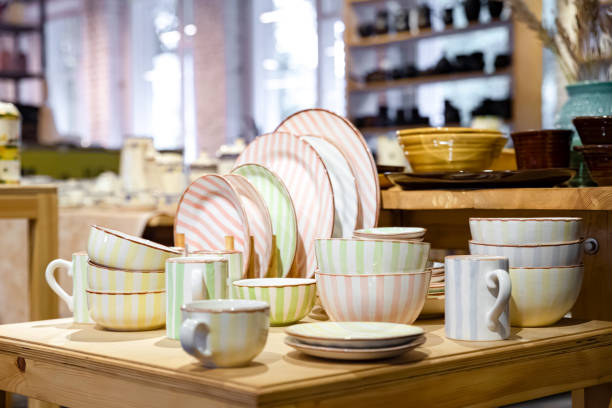
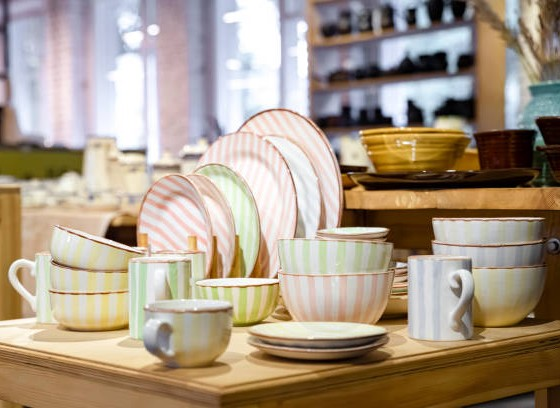
Shop By Category Modified

diff --git a/index.html b/index.html
@@ -234,65 +234,171 @@
           <h1>Shop By Category</h1>
 
           <div class="category_container">
-            <div class="categories cate_1">
-              <img src="images/categories/1.jpg" alt="category_1" />
+            <div class="categories">
+              <div class="cate">
+                <img src="images/categories/1.jpg" alt="category_1" />
+              </div>
+              <div class="info">
+                <div class="trend">Western Wear</div>
+                <div class="discount">40-80% Off</div>
+                <div class="shop">Shop Now</div>
+              </div>
             </div>
 
-            <div class="categories cate_2">
-              <img src="images/categories/2.jpg" alt="category_2" />
+            <div class="categories">
+              <div class="cate">
+                <img src="images/categories/2.jpg" alt="category_2" />
+              </div>
+              <div class="info">
+                <div class="trend">Home Decor</div>
+                <div class="discount">40-70% Off</div>
+                <div class="shop">Shop Now</div>
+              </div>
             </div>
 
-            <div class="categories cate_3">
-              <img src="images/categories/3.jpg" alt="category_3" />
+            <div class="categories">
+              <div class="cate">
+                <img src="images/categories/3.jpg" alt="category_3" />
+              </div>
+              <div class="info">
+                <div class="trend">Women's Dresses</div>
+                <div class="discount">30-70% Off</div>
+                <div class="shop">Shop Now</div>
+              </div>
             </div>
 
-            <div class="categories cate_4">
-              <img src="images/categories/4.jpg" alt="category_4" />
+            <div class="categories">
+              <div class="cate">
+                <img src="images/categories/4.jpg" alt="category_4" />
+              </div>
+              <div class="info">
+                <div class="trend">Footwear</div>
+                <div class="discount">40-80% Off</div>
+                <div class="shop">Shop Now</div>
+              </div>
             </div>
 
-            <div class="categories cate_5">
-              <img src="images/categories/5.jpg" alt="category_5" />
+           <div class="categories">
+              <div class="cate">
+                <img src="images/categories/5.jpg" alt="category_5" />
+              </div>
+              <div class="info">
+                <div class="trend">Jewellery</div>
+                <div class="discount">40-80% Off</div>
+                <div class="shop">Shop Now</div>
+              </div>
             </div>
 
-            <div class="categories cate_6">
-              <img src="images/categories/6.jpg" alt="category_6" />
+            <div class="categories">
+              <div class="cate">
+                <img src="images/categories/6.jpg" alt="category_6" />
+              </div>
+              <div class="info">
+                <div class="trend">Men's Ethnic Wear</div>
+                <div class="discount">50-80% Off</div>
+                <div class="shop">Shop Now</div>
+              </div>
             </div>
 
-            <div class="categories cate_7">
-              <img src="images/categories/7.jpg" alt="category_7" />
+           <div class="categories">
+              <div class="cate">
+                <img src="images/categories/7.jpg" alt="category_7" />
+              </div>
+              <div class="info">
+                <div class="trend">Men's Casual Wear</div>
+                <div class="discount">40-80% Off</div>
+                <div class="shop">Shop Now</div>
+              </div>
             </div>
 
-            <div class="categories cate_8">
-              <img src="images/categories/8.jpg" alt="category_8" />
+            <div class="categories">
+              <div class="cate">
+                <img src="images/categories/8.jpg" alt="category_8" />
+              </div>
+              <div class="info">
+                <div class="trend">Handbags</div>
+                <div class="discount">30-70% Off</div>
+                <div class="shop">Shop Now</div>
+              </div>
             </div>
 
-            <div class="categories cate_9">
-              <img src="images/categories/9.jpg" alt="category_9" />
+            <div class="categories">
+              <div class="cate">
+                <img src="images/categories/9.jpg" alt="category_9" />
+              </div>
+              <div class="info">
+                <div class="trend">Innerwear</div>
+                <div class="discount">40-80% Off</div>
+                <div class="shop">Shop Now</div>
+              </div>
             </div>
 
-            <div class="categories cate_10">
-              <img src="images/categories/10.jpg" alt="category_10" />
+           <div class="categories">
+              <div class="cate">
+                <img src="images/categories/10.jpg" alt="category_10" />
+              </div>
+              <div class="info">
+                <div class="trend">Formal Wear</div>
+                <div class="discount">30-70% Off</div>
+                <div class="shop">Shop Now</div>
+              </div>
             </div>
 
-            <div class="categories cate_10">
-              <img src="images/categories/11.jpg" alt="category_11" />
+          <div class="categories">
+              <div class="cate">
+                <img src="images/categories/11.jpg" alt="category_11" />
+              </div>
+              <div class="info">
+                <div class="trend">Fashion Jewellery</div>
+                <div class="discount">50-80% Off</div>
+                <div class="shop">Shop Now</div>
+              </div>
             </div>
 
-            <div class="categories cate_10">
-              <img src="images/categories/12.jpg" alt="category_12" />
+            <div class="categories">
+              <div class="cate">
+                <img src="images/categories/12.jpg" alt="category_12" />
+              </div>
+              <div class="info">
+                <div class="trend">Sarees</div>
+                <div class="discount">50-80% Off</div>
+                <div class="shop">Shop Now</div>
+              </div>
             </div>
 
-            <div class="categories cate_10">
-              <img src="images/categories/13.jpg" alt="category_13" />
+           <div class="categories">
+              <div class="cate">
+                <img src="images/categories/13.jpg" alt="category_13" />
+              </div>
+              <div class="info">
+                <div class="trend">Kitchen & Dining</div>
+                <div class="discount">40-70% Off</div>
+                <div class="shop">Shop Now</div>
+              </div>
             </div>
 
-            <div class="categories cate_10">
-              <img src="images/categories/14.jpg" alt="category_14" />
+            <div class="categories">
+              <div class="cate">
+                <img src="images/categories/14.jpg" alt="category_14" />
+              </div>
+              <div class="info">
+                <div class="trend">Men's Casual Wear</div>
+                <div class="discount">40-80% Off</div>
+                <div class="shop">Shop Now</div>
+              </div>
             </div>
 
-            <div class="categories cate_10">
-              <img src="images/categories/15.jpg" alt="category_15" />
+            <div class="categories">
+              <div class="cate">
+                <img src="images/categories/15.jpg" alt="category_15" />
+              </div>
+              <div class="info">
+                <div class="trend">Beauty & Skincare</div>
+                <div class="discount">30-80% Off</div>
+                <div class="shop">Shop Now</div>
+              </div>
             </div>
+
           </div>
         </div>
       </section>

diff --git a/styles.css b/styles.css
@@ -574,11 +574,40 @@
     overflow: hidden;
 }
 
+.cate {
+    background-color: #fbe3c4;
+    padding: 3px;
+}
+
 .categories img {
-   height: 100%;
-    width: 100%;
-    object-fit: fill;
-    display: block;
+   height: 220px;
+   width: 100%;
+   display: block;
+   border-radius: 5px;
+}
+
+.categories .info {
+    height: 80px;
+    background-color: #fbe3c4;
+    text-align: center;
+    letter-spacing: 0.5px;
+    padding: 2px 10px 2px 10px;
+}
+
+.info .trend {
+    font-size: 14px;
+    font-weight: 650; 
+}
+
+.info .discount {
+    font-size: 20px;
+    text-transform: uppercase;
+    font-weight: bold;
+}
+
+.info .shop {
+    font-size: 12px;
+    font-weight: 650;
 }
 
 /* Knockout Page */
@@ -691,6 +720,8 @@
 
 .footer{
     width:100%;
+    height: 600px;
+    margin-top: 80px;
     background:#fafbfc;
     padding:20px 130px;
     font-family:Arial, Helvetica, sans-serif;